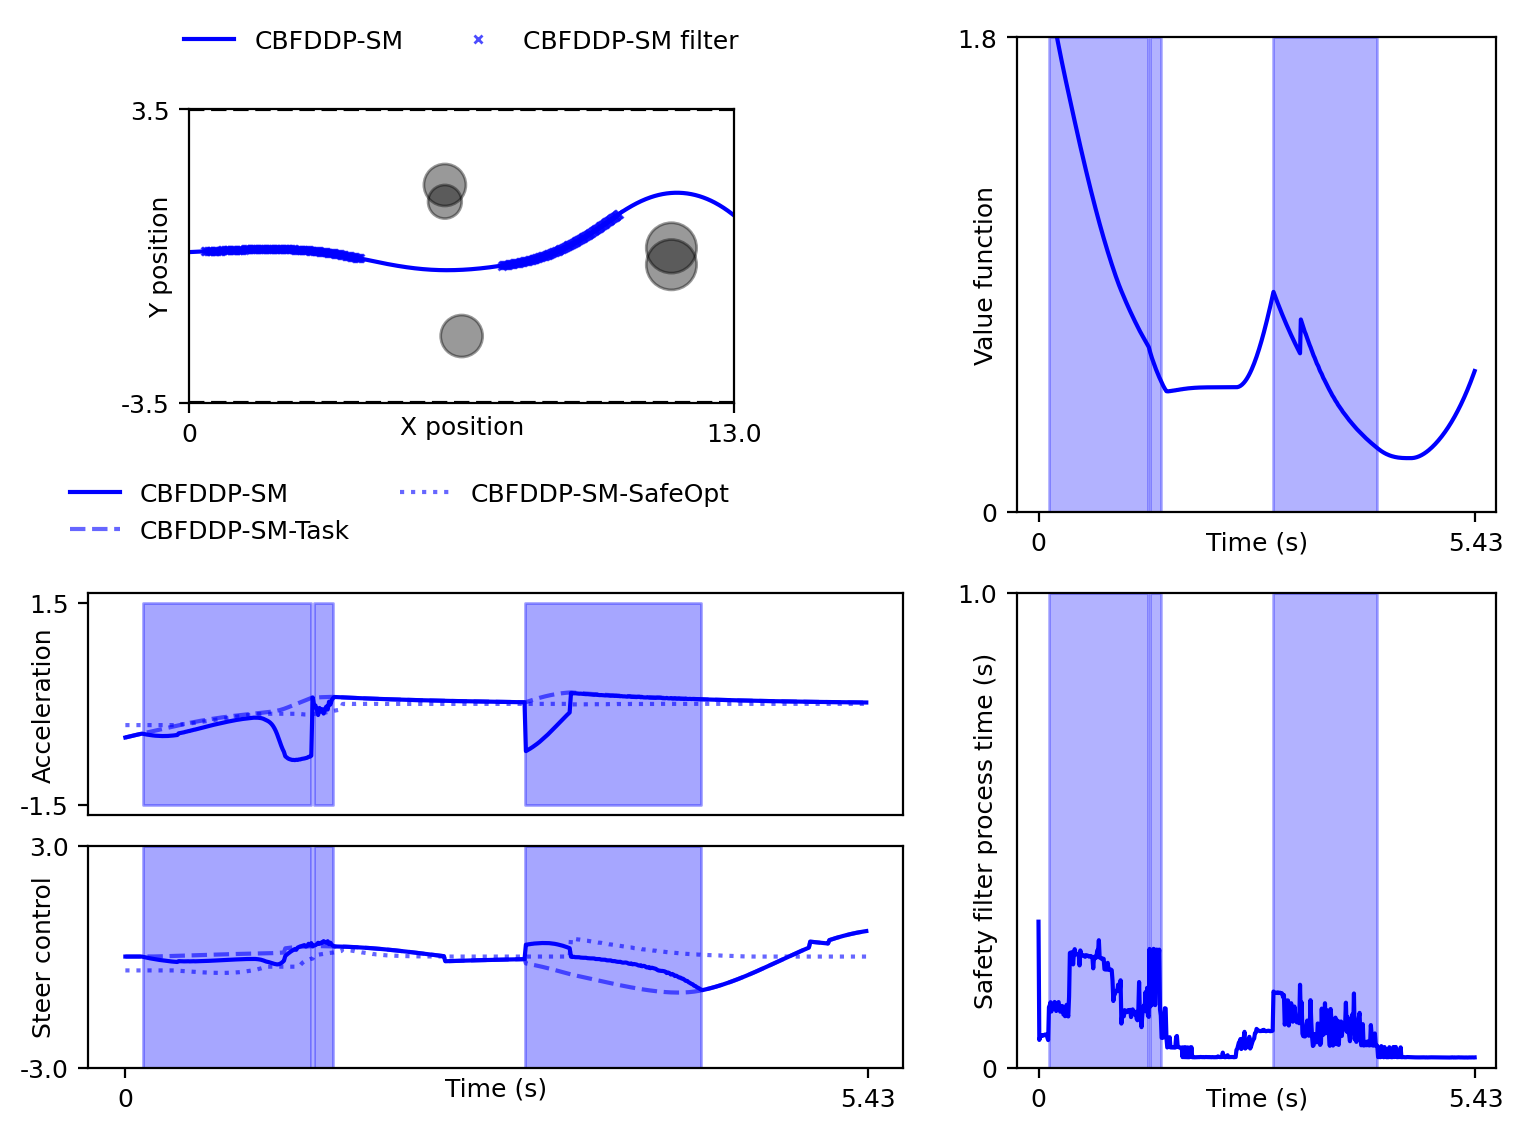
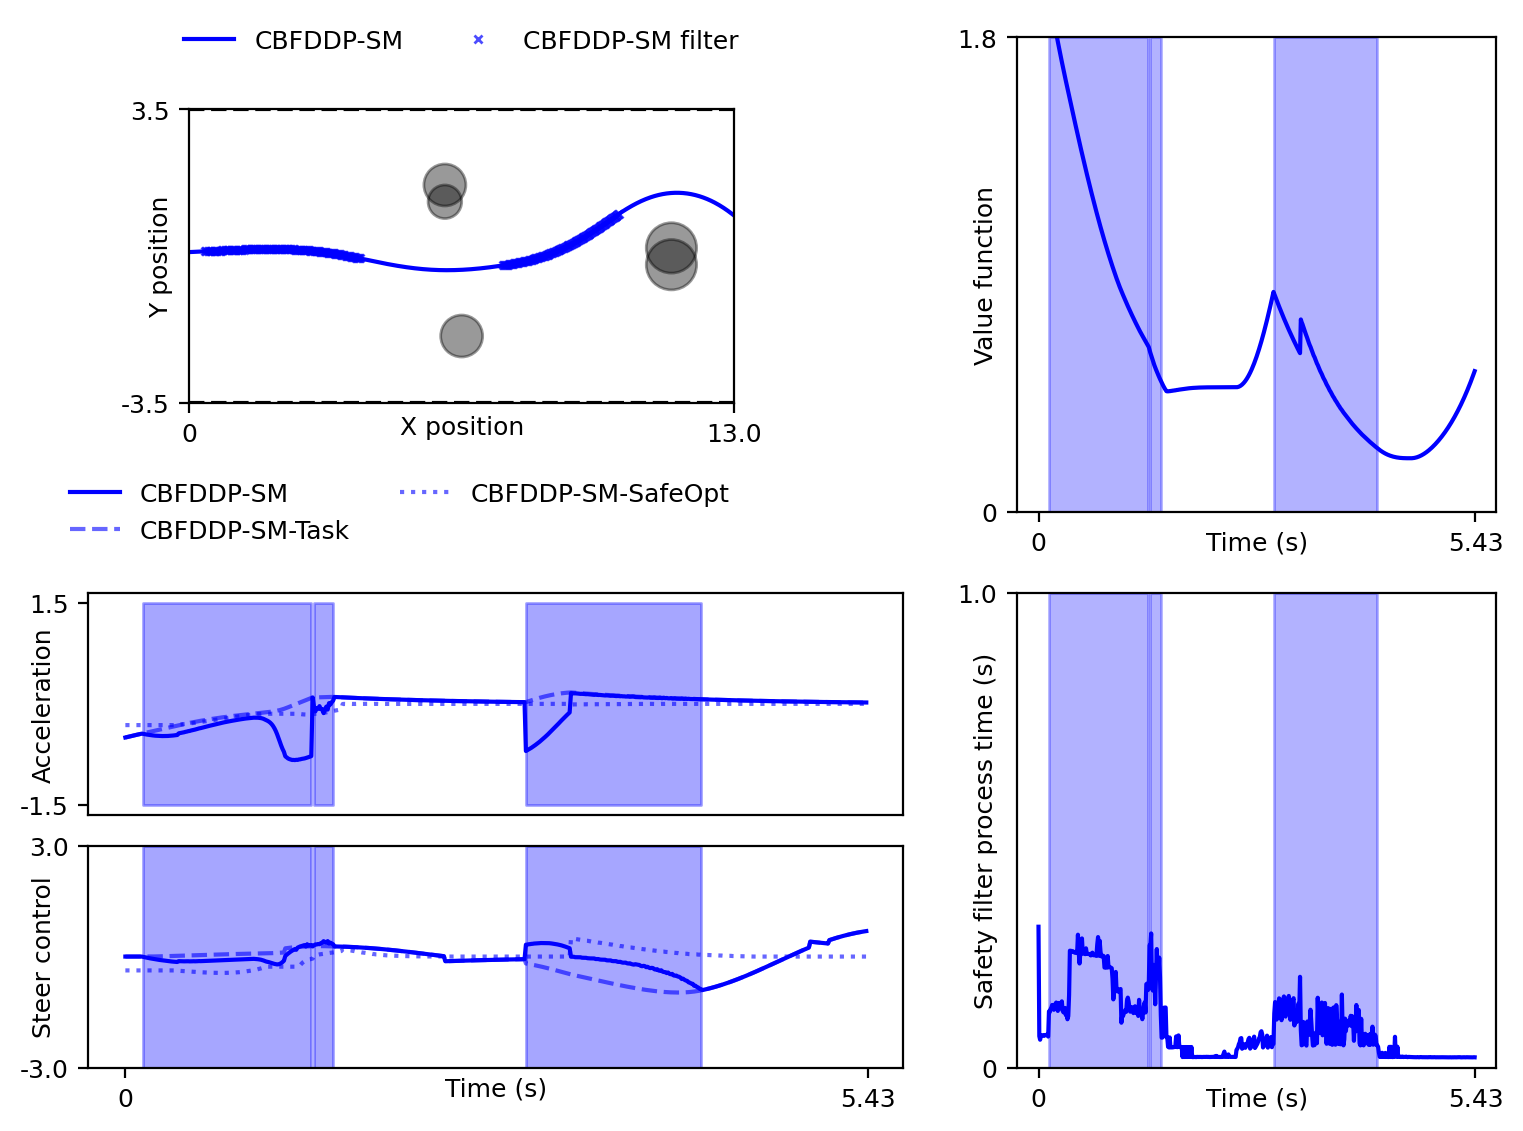
provide DDP option (#6)
* provide DDP option

* updates

* updates to plots

* add hessian support

* update config

Changed region(s): [[0.8024, 0.8665, 0.9258, 0.9284], [0.7406, 0.8665, 0.7715, 0.8974], [0.7098, 0.8355, 0.7406, 0.8665]]

diff --git a/simulators/policy/ilqr_reachavoid_policy.py b/simulators/policy/ilqr_reachavoid_policy.py
@@ -67,11 +67,21 @@ class iLQRReachAvoid(iLQR):
             )
 
             fx, fu = self.dyn.get_jacobian(states[:, :-1], controls[:, :-1])
-            V_x, V_xx, constant_term_loop, k_open_loop, K_closed_loop, _, _ = self.backward_pass(
-                c_x=c_x, c_u=c_u, c_xx=c_xx, c_uu=c_uu, c_ux=c_ux,
-                c_x_t=c_x_t, c_u_t=c_u_t, c_xx_t=c_xx_t, c_uu_t=c_uu_t, c_ux_t=None, fx=fx, fu=fu,
-                critical=critical
-            )
+
+            if self.order == 'DDP':
+                fxx, fuu, fux = self.dyn.get_hessian(states[:, :-1], controls[:, :-1])
+                V_x, V_xx, constant_term_loop, k_open_loop, K_closed_loop, _, _ = self.backward_pass_ddp(
+                    c_x=c_x, c_u=c_u, c_xx=c_xx, c_uu=c_uu, c_ux=c_ux,
+                    c_x_t=c_x_t, c_u_t=c_u_t, c_xx_t=c_xx_t, c_uu_t=c_uu_t, c_ux_t=None, fx=fx, fu=fu,
+                    fxx=fxx, fuu=fuu, fux=fux,
+                    critical=critical
+                )
+            else:
+                V_x, V_xx, constant_term_loop, k_open_loop, K_closed_loop, _, _ = self.backward_pass(
+                    c_x=c_x, c_u=c_u, c_xx=c_xx, c_uu=c_uu, c_ux=c_ux,
+                    c_x_t=c_x_t, c_u_t=c_u_t, c_xx_t=c_xx_t, c_uu_t=c_uu_t, c_ux_t=None, fx=fx, fu=fu,
+                    critical=critical
+                )
 
             # Choose the best alpha scaling using appropriate line search methods
             alpha_chosen = self.baseline_line_search( states, controls, K_closed_loop, k_open_loop, J)
@@ -406,8 +416,7 @@ class iLQRReachAvoid(iLQR):
             #! Q_x, Q_xx are not used if this time step is critical.
             # Q_x = c_x[:, idx] + fx[:, :, idx].T @ V_x
             # Q_xx = c_xx[:, :, idx] + fx[:, :, idx].T @ V_xx @ fx[:, :, idx]
-            Q_ux = c_ux[:, :, idx] + \
-                fu[:, :, idx].T @ (V_xx + reg_mat) @ fx[:, :, idx]
+            Q_ux = fu[:, :, idx].T @ (V_xx + reg_mat) @ fx[:, :, idx]
             Q_u = c_u[:, idx] + fu[:, :, idx].T @ V_x
             Q_uu = c_uu[:, :, idx] + \
                 fu[:, :, idx].T @ (V_xx + reg_mat) @ fu[:, :, idx]
@@ -444,11 +453,167 @@ class iLQRReachAvoid(iLQR):
 
             Q_x = fx[:, :, idx].T @ V_x
             Q_xx = fx[:, :, idx].T @ V_xx @ fx[:, :, idx]
-            Q_ux = c_ux[:, :, idx] + \
-                fu[:, :, idx].T @ (V_xx + reg_mat) @ fx[:, :, idx]
+            Q_ux = fu[:, :, idx].T @ (V_xx + reg_mat) @ fx[:, :, idx]
             Q_u = c_u[:, idx] + fu[:, :, idx].T @ V_x
             Q_uu = c_uu[:, :, idx] + \
                 fu[:, :, idx].T @ (V_xx + reg_mat) @ fu[:, :, idx]
+
+            Q_uu_inv = jnp.linalg.inv(Q_uu)
+            Ks = Ks.at[:, :, idx].set(-Q_uu_inv @ Q_ux)
+            kst = Q_uu_inv @ Q_u
+            ks = ks.at[:, idx].set(-kst)
+
+            V_x_new = Q_x + Q_ux.T @ ks[:, idx]
+            V_xx_new = Q_xx + Q_ux.T @ Ks[:, :, idx]
+
+            beta = - fu[:, :, idx] @ kst
+            ns = ns.at[idx].set(ns[idx +
+                                   1] +
+                                0.5 *
+                                beta @ V_xx @ beta +
+                                0.5 *
+                                kst @ c_uu[:, :, idx] @ kst +
+                                V_x.T @ beta)
+
+            return V_x_new, V_xx_new, ns, ks, Ks, V_x_critical, V_xx_critical
+
+        @jax.jit
+        def backward_pass_looper(i, _carry):
+            V_x, V_xx, ns, ks, Ks, critical, V_x_critical, V_xx_critical = _carry
+            idx = self.N - 2 - i
+
+            V_x, V_xx, ns, ks, Ks, V_x_critical, V_xx_critical = jax.lax.switch(
+                critical[idx], [propagate_backward_func,
+                                failure_backward_func, target_backward_func],
+                (idx, V_x, V_xx, ns, ks, Ks, V_x_critical, V_xx_critical)
+            )
+
+            return V_x, V_xx, ns, ks, Ks, critical, V_x_critical, V_xx_critical
+
+        @jax.jit
+        def failure_final_func(args):
+            c_x, c_xx, _, _ = args
+            return jnp.array(c_x[:, self.N - 1]
+                             ), jnp.array(c_xx[:, :, self.N - 1])
+
+        @jax.jit
+        def target_final_func(args):
+            _, _, c_x_t, c_xx_t = args
+            return jnp.array(c_x_t[:, self.N - 1]
+                             ), jnp.array(c_xx_t[:, :, self.N - 1])
+
+        # Initializes.
+        Ks = jnp.zeros((self.dim_u, self.dim_x, self.N - 1))
+        ks = jnp.zeros((self.dim_u, self.N - 1))
+        ns = jnp.zeros((self.N - 1, ))
+
+        V_x_critical = jnp.zeros((self.dim_x, ))
+        V_xx_critical = jnp.zeros((self.dim_x, self.dim_x, ))
+
+        reg_mat = self.eps * jnp.eye(self.dim_x)
+
+        # If critical is 2 choose target - hacky!!
+        V_x, V_xx = jax.lax.cond(
+            critical[self.N - 1] == 1, failure_final_func, target_final_func, (c_x, c_xx, c_x_t, c_xx_t))
+
+        V_x, V_xx, ns, ks, Ks, _, V_x_critical, V_xx_critical = jax.lax.fori_loop(
+            0, self.N -
+            1, backward_pass_looper, (V_x, V_xx, ns, ks,
+                                      Ks, critical, V_x_critical, V_xx_critical)
+        )
+
+        return V_x, V_xx, ns, ks, Ks, V_x_critical, V_xx_critical
+
+    @partial(jax.jit, static_argnames='self')
+    def backward_pass_ddp(
+        self,
+        c_x: DeviceArray, c_u: DeviceArray, c_xx: DeviceArray,
+        c_uu: DeviceArray, c_ux: DeviceArray, c_x_t: DeviceArray, c_u_t: DeviceArray,
+        c_xx_t: DeviceArray, c_uu_t: DeviceArray, c_ux_t: DeviceArray, fx: DeviceArray, fu: DeviceArray,
+        fxx: DeviceArray, fuu: DeviceArray, fux:DeviceArray,
+        critical: DeviceArray
+    ) -> Tuple[DeviceArray, DeviceArray, DeviceArray, DeviceArray, DeviceArray, DeviceArray]:
+        """
+        Jitted backward pass looped computation.
+
+        Args:
+            c_x (DeviceArray): (dim_x, N)
+            c_u (DeviceArray): (dim_u, N)
+            c_xx (DeviceArray): (dim_x, dim_x, N)
+            c_uu (DeviceArray): (dim_u, dim_u, N)
+            c_ux (DeviceArray): (dim_u, dim_x, N)
+            fx (DeviceArray): (dim_x, dim_x, N-1)
+            fu (DeviceArray): (dim_x, dim_u, N-1)
+            fxx (DeviceArray): (dim_x, dim_x, dim_x, N-1)
+            fuu (DeviceArray): (dim_x, dim_u, dim_u, N-1)
+            fux (DeviceArray): (dim_x, dim_u, dim_x, N-1)
+
+        Returns:
+            Vx (DeviceArray): gain matrices (dim_x, 1)
+            Vxx (DeviceArray): gain vectors (dim_x, dim_x, 1)
+            Ks (DeviceArray): gain matrices (dim_u, dim_x, N - 1)
+            ks (DeviceArray): gain vectors (dim_u, N - 1)
+            Vx_critical (DeviceArray): gain matrices (dim_x, 1)
+            Vxx_critical (DeviceArray): gain vectors (dim_x, dim_x, 1)
+        """
+
+        @jax.jit
+        def failure_backward_func(args):
+            idx, V_x, V_xx, ns, ks, Ks, V_x_critical, V_xx_critical = args
+
+            #! Q_x, Q_xx are not used if this time step is critical.
+            # Q_x = c_x[:, idx] + fx[:, :, idx].T @ V_x
+            # Q_xx = c_xx[:, :, idx] + fx[:, :, idx].T @ V_xx @ fx[:, :, idx]
+            Q_ux_append = jnp.einsum('i, ijk->jk', V_x, fux[:, :, :, idx])
+            Q_ux = c_ux[:, :, idx] + \
+                fu[:, :, idx].T @ (V_xx + reg_mat) @ fx[:, :, idx]
+            Q_u = c_u[:, idx] + fu[:, :, idx].T @ V_x
+            Q_uu_append = jnp.einsum('i, ijk->jk', V_x, fuu[:, :, :, idx])
+            Q_uu = (c_uu[:, :, idx] + \
+                fu[:, :, idx].T @ (V_xx + reg_mat) @ fu[:, :, idx] + Q_uu_append)
+
+            Q_uu_inv = jnp.linalg.inv(Q_uu)
+            Ks = Ks.at[:, :, idx].set(-Q_uu_inv @ Q_ux)
+            ks = ks.at[:, idx].set(-Q_uu_inv @ Q_u)
+
+            return jnp.array(c_x[:, idx]), jnp.array(c_xx[:, :, idx]), ns, ks, Ks, jnp.array(
+                c_x[:, idx]), jnp.array(c_xx[:, :, idx])
+
+        @jax.jit
+        def target_backward_func(args):
+            idx, V_x, V_xx, ns, ks, Ks, V_x_critical, V_xx_critical = args
+
+            #! Q_x, Q_xx are not used if this time step is critical.
+            # Q_x = c_x[:, idx] + fx[:, :, idx].T @ V_x
+            # Q_xx = c_xx[:, :, idx] + fx[:, :, idx].T @ V_xx @ fx[:, :, idx]
+            Q_ux_append = jnp.einsum('i, ijk->jk', V_x, fux[:, :, :, idx])
+            Q_ux = c_ux[:, :, idx] + \
+                fu[:, :, idx].T @ (V_xx + reg_mat) @ fx[:, :, idx]
+            Q_u = c_u_t[:, idx] + fu[:, :, idx].T @ V_x
+            Q_uu_append = jnp.einsum('i, ijk->jk', V_x, fuu[:, :, :, idx])
+            Q_uu = (c_uu_t[:, :, idx] + \
+                fu[:, :, idx].T @ (V_xx + reg_mat) @ fu[:, :, idx] + Q_uu_append)
+
+            Q_uu_inv = jnp.linalg.inv(Q_uu)
+            Ks = Ks.at[:, :, idx].set(-Q_uu_inv @ Q_ux)
+            ks = ks.at[:, idx].set(-Q_uu_inv @ Q_u)
+
+            return jnp.array(c_x_t[:, idx]), jnp.array(c_xx_t[:, :, idx]), ns, ks, Ks, jnp.array(
+                c_x_t[:, idx]), jnp.array(c_xx_t[:, :, idx])
+
+        @jax.jit
+        def propagate_backward_func(args):
+            idx, V_x, V_xx, ns, ks, Ks, V_x_critical, V_xx_critical = args
+
+            Q_x = fx[:, :, idx].T @ V_x
+            Q_xx_append = jnp.einsum('i, ijk->jk', V_x, fxx[:, :, :, idx])
+            Q_xx = (fx[:, :, idx].T @ V_xx @ fx[:, :, idx] + Q_xx_append)
+            Q_ux_append = jnp.einsum('i, ijk->jk', V_x, fux[:, :, :, idx])
+            Q_ux = (fu[:, :, idx].T @ (V_xx + reg_mat) @ fx[:, :, idx] + Q_ux_append)
+            Q_u = c_u[:, idx] + fu[:, :, idx].T @ V_x
+            Q_uu_append = jnp.einsum('i, ijk->jk', V_x, fuu[:, :, :, idx])
+            Q_uu = (c_uu[:, :, idx] + \
+                fu[:, :, idx].T @ (V_xx + reg_mat) @ fu[:, :, idx] + Q_uu_append)
 
             Q_uu_inv = jnp.linalg.inv(Q_uu)
             Ks = Ks.at[:, :, idx].set(-Q_uu_inv @ Q_ux)

diff --git a/simulators/policy/ilqr_reachability_policy.py b/simulators/policy/ilqr_reachability_policy.py
@@ -56,10 +56,19 @@ class iLQRReachability(iLQR):
           states, controls
       )
       fx, fu = self.dyn.get_jacobian(states[:, :-1], controls[:, :-1])
-      V_x, V_xx, k_open_loop, K_closed_loop, _, _ = self.backward_pass(
-          c_x=c_x, c_u=c_u, c_xx=c_xx, c_uu=c_uu, c_ux=c_ux, fx=fx, fu=fu,
-          critical=critical, failure_margins=failure_margins
-      )
+
+      if self.order == 'DDP':
+          fxx, fuu, fux = self.dyn.get_hessian(states[:, :-1], controls[:, :-1])
+          V_x, V_xx, k_open_loop, K_closed_loop, _, _ = self.backward_pass_ddp(
+              c_x=c_x, c_u=c_u, c_xx=c_xx, c_uu=c_uu, c_ux=c_ux, fx=fx, fu=fu,
+              fxx=fxx, fuu=fuu, fux=fux,
+              critical=critical, failure_margins=failure_margins
+          )
+      else:
+          V_x, V_xx, k_open_loop, K_closed_loop, _, _ = self.backward_pass(
+              c_x=c_x, c_u=c_u, c_xx=c_xx, c_uu=c_uu, c_ux=c_ux, fx=fx, fu=fu,
+              critical=critical, failure_margins=failure_margins
+          )
       
       alpha_chosen = 1.0
       # Choose the best alpha scaling using appropriate line search methods
@@ -216,6 +225,102 @@ class iLQRReachability(iLQR):
       Q_ux = c_ux[:, :, idx] + fu[:, :, idx].T @ V_xx @ fx[:, :, idx]
       Q_u = c_u[:, idx] + fu[:, :, idx].T @ V_x
       Q_uu = c_uu[:, :, idx] + fu[:, :, idx].T @ V_xx @ fu[:, :, idx]
+
+      Q_uu_inv = jnp.linalg.inv(Q_uu + reg_mat)
+      Ks = Ks.at[:, :, idx].set(-Q_uu_inv @ Q_ux)
+      ks = ks.at[:, idx].set(-Q_uu_inv @ Q_u)
+
+      V_x = Q_x + Q_ux.T @ ks[:, idx]
+      V_xx = Q_xx + Q_ux.T @ Ks[:, :, idx]
+
+      return V_x, V_xx, ks, Ks, V_x_critical, V_xx_critical
+
+    @jax.jit
+    def backward_pass_looper(i, _carry):
+      V_x, V_xx, ks, Ks, critical, V_x_critical, V_xx_critical = _carry
+      idx = self.N - 2 - i
+
+      V_x, V_xx, ks, Ks, V_x_critical, V_xx_critical = jax.lax.cond(
+          critical[idx], true_func, false_func, (idx, V_x, V_xx, ks, Ks, V_x_critical, V_xx_critical)
+      )
+
+      return V_x, V_xx, ks, Ks, critical, V_x_critical, V_xx_critical
+
+    # Initializes.
+    Ks = jnp.zeros((self.dim_u, self.dim_x, self.N - 1))
+    ks = jnp.zeros((self.dim_u, self.N - 1))
+    
+    V_x_critical = jnp.zeros((self.dim_x, ))
+    V_xx_critical = jnp.zeros((self.dim_x, self.dim_x, ))
+
+    V_x = c_x[:, -1]
+    V_xx = c_xx[:, :, -1]
+    
+    reg_mat = self.eps * jnp.eye(self.dim_u)
+
+    V_x, V_xx, ks, Ks, critical, V_x_critical, V_xx_critical = jax.lax.fori_loop(
+        0, self.N - 1, backward_pass_looper, (V_x, V_xx, ks, Ks, critical, V_x_critical, V_xx_critical)
+    )
+    return V_x, V_xx, ks, Ks, V_x_critical, V_xx_critical
+
+
+  @partial(jax.jit, static_argnames='self')
+  def backward_pass_ddp(
+      self, c_x: DeviceArray, c_u: DeviceArray, c_xx: DeviceArray,
+      c_uu: DeviceArray, c_ux: DeviceArray, fx: DeviceArray, fu: DeviceArray,
+      fxx: DeviceArray, fuu: DeviceArray, fux: DeviceArray,
+      critical: DeviceArray, failure_margins:DeviceArray
+  ) -> Tuple[DeviceArray, DeviceArray, DeviceArray, DeviceArray, DeviceArray,DeviceArray, DeviceArray]:
+    """
+    Jitted backward pass looped computation.
+
+    Args:
+        c_x (DeviceArray): (dim_x, N)
+        c_u (DeviceArray): (dim_u, N)
+        c_xx (DeviceArray): (dim_x, dim_x, N)
+        c_uu (DeviceArray): (dim_u, dim_u, N)
+        c_ux (DeviceArray): (dim_u, dim_x, N)
+        fx (DeviceArray): (dim_x, dim_x, N-1)
+        fu (DeviceArray): (dim_x, dim_u, N-1)
+
+    Returns:
+        Ks (DeviceArray): gain matrices (dim_u, dim_x, N - 1)
+        ks (DeviceArray): gain vectors (dim_u, N - 1)
+    """
+
+    @jax.jit
+    def true_func(args):
+      idx, V_x, V_xx, ks, Ks, _, _ = args
+
+      #! Q_x, Q_xx are not used if this time step is critical.
+      # Q_x = c_x[:, idx] + fx[:, :, idx].T @ V_x
+      # Q_xx = c_xx[:, :, idx] + fx[:, :, idx].T @ V_xx @ fx[:, :, idx]
+      Q_ux_append = jnp.einsum('i, ijk->jk', V_x, fux[:, :, :, idx])
+      Q_ux = c_ux[:, :, idx] + fu[:, :, idx].T @ V_xx @ fx[:, :, idx] + Q_ux_append
+      Q_u = c_u[:, idx] + fu[:, :, idx].T @ V_x
+      Q_uu_append = jnp.einsum('i, ijk->jk', V_x, fuu[:, :, :, idx])
+      Q_uu = c_uu[:, :, idx] + fu[:, :, idx].T @ V_xx @ fu[:, :, idx] + Q_uu_append
+
+      Q_uu_inv = jnp.linalg.inv(Q_uu + reg_mat)
+      Ks = Ks.at[:, :, idx].set(-Q_uu_inv @ Q_ux)
+      ks = ks.at[:, idx].set(-Q_uu_inv @ Q_u)
+ 
+      return c_x[:, idx], c_xx[:, :, idx], ks, Ks, c_x[:, idx], c_xx[:, :, idx]
+
+    @jax.jit
+    def false_func(args):
+      idx, V_x, V_xx, ks, Ks, V_x_critical, V_xx_critical = args
+
+      Q_x = fx[:, :, idx].T @ V_x
+      Q_xx_append = jnp.einsum('i, ijk->jk', V_x, fxx[:, :, :, idx])
+      Q_xx = fx[:, :, idx].T @ V_xx @ fx[:, :, idx] + Q_xx_append
+
+      Q_ux_append = jnp.einsum('i, ijk->jk', V_x, fux[:, :, :, idx])
+      Q_ux = c_ux[:, :, idx] + fu[:, :, idx].T @ V_xx @ fx[:, :, idx] + Q_ux_append
+
+      Q_u = c_u[:, idx] + fu[:, :, idx].T @ V_x
+      Q_uu_append = jnp.einsum('i, ijk->jk', V_x, fuu[:, :, :, idx])
+      Q_uu = c_uu[:, :, idx] + fu[:, :, idx].T @ V_xx @ fu[:, :, idx] + Q_uu_append
 
       Q_uu_inv = jnp.linalg.inv(Q_uu + reg_mat)
       Ks = Ks.at[:, :, idx].set(-Q_uu_inv @ Q_ux)

diff --git a/simulators/dynamics/base_dynamics.py b/simulators/dynamics/base_dynamics.py
@@ -80,3 +80,30 @@ class BaseDynamics(ABC):
         _jac = jax.jacfwd(self._integrate_forward, argnums=[0, 1])
         jac = jax.jit(jax.vmap(_jac, in_axes=(1, 1), out_axes=(2, 2)))
         return jac(nominal_states, nominal_controls)
+
+    @partial(jax.jit, static_argnames='self')
+    def get_hessian(
+      self, nominal_states: DeviceArray, nominal_controls: DeviceArray
+    ) -> Tuple[DeviceArray, DeviceArray]:
+        """
+        Returns the hessian tensor of the ego vehicle around
+        nominal states and controls.
+        Args:
+            nominal_states (DeviceArray): states along the nominal trajectory.
+            nominal_controls (DeviceArray): controls along the trajectory.
+
+        Returns:
+            DeviceArray: the Hessian of the dynamics w.r.t. the state.
+            DeviceArray: the Hessian of the dynamics w.r.t. the control.
+        """
+        _jac_xx = jax.jacfwd(jax.jacrev(self._integrate_forward, argnums=0), argnums=0)
+        jac_xx = jax.jit(jax.vmap(_jac_xx, in_axes=(1), out_axes=3))
+
+        _jac_uu = jax.jacfwd(jax.jacrev(self._integrate_forward, argnums=1), argnums=1)
+        jac_uu = jax.jit(jax.vmap(_jac_uu, in_axes=(1), out_axes=3))
+
+        _jac_ux = jax.jacfwd(jax.jacrev(self._integrate_forward, argnums=1), argnums=0)
+        jac_ux = jax.jit(jax.vmap(_jac_ux, in_axes=(1), out_axes=3))
+
+        return (jac_xx(nominal_states, nominal_controls), jac_uu(nominal_states, nominal_controls), 
+                        jac_ux(nominal_states, nominal_controls))

diff --git a/brax_utils/wrapped_env/wrapper_env.py b/brax_utils/wrapped_env/wrapper_env.py
@@ -55,6 +55,22 @@ class WrappedBraxEnv(ABC):
         state_grad = jax.jacobian(self.step_generalized_coordinates, argnums=0)(state, action).pipeline_state
         action_grad = jax.jacobian(self.step_generalized_coordinates, argnums=1)(state, action)
         return jnp.concatenate([state_grad.q[..., 0:self.dim_q_states], state_grad.qd[..., 0:self.dim_qd_states], state_grad.qdd[..., 0:self.dim_qdd_states]], axis=-1), action_grad
+    
+    @partial(jax.jit, static_argnames=['self'])
+    def get_generalized_coordinates_hess(self, state, action):
+        # unused currently as too slow to extract hessian without vmap.
+        hess_xx, hess_ux = jax.jacfwd(self.get_generalized_coordinates_grad, argnums=0)(state, action)
+        _, hess_uu = jax.jacfwd(self.get_generalized_coordinates_grad, argnums=1)(state, action)
+
+        f_xx = jnp.concatenate([hess_xx.pipeline_state.q[..., 0:self.dim_q_states], 
+                                hess_xx.pipeline_state.qd[..., 0:self.dim_qd_states],
+                                hess_xx.pipeline_state.qdd[..., 0:self.dim_qdd_states]], axis=-1)
+
+        f_ux = jnp.concatenate([hess_ux.pipeline_state.q[..., 0:self.dim_q_states], 
+                                hess_ux.pipeline_state.qd[..., 0:self.dim_qd_states],
+                                hess_ux.pipeline_state.qdd[..., 0:self.dim_qdd_states]], axis=-1)
+
+        return f_xx, f_ux, hess_uu
 
     @partial(jax.jit, static_argnames=['self'])
     def get_obs_grad(self, pipeline_state):

diff --git a/simulators/policy/ilqr_policy.py b/simulators/policy/ilqr_policy.py
@@ -26,6 +26,7 @@ class iLQR(BasePolicy):
         self.dim_x = dyn.dim_x
         self.dim_u = dyn.dim_u
         self.N = config.N
+        self.order = config.ORDER
         self.max_iter = config.MAX_ITER
         self.tol = 1e-5  # ILQR update tolerance.
         self.eps = getattr(config, "EPS", 1e-6)
